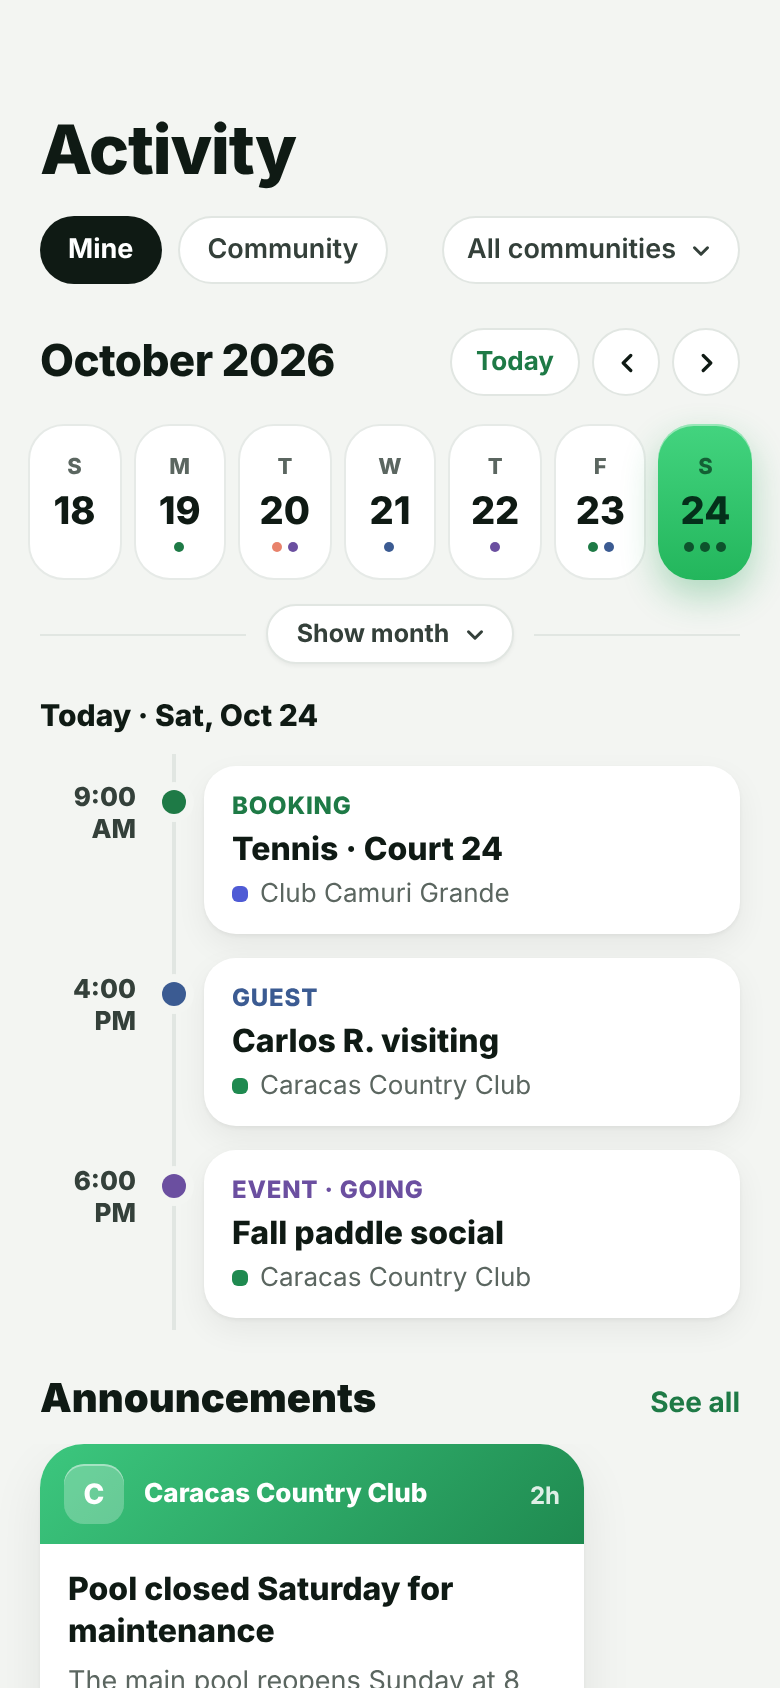
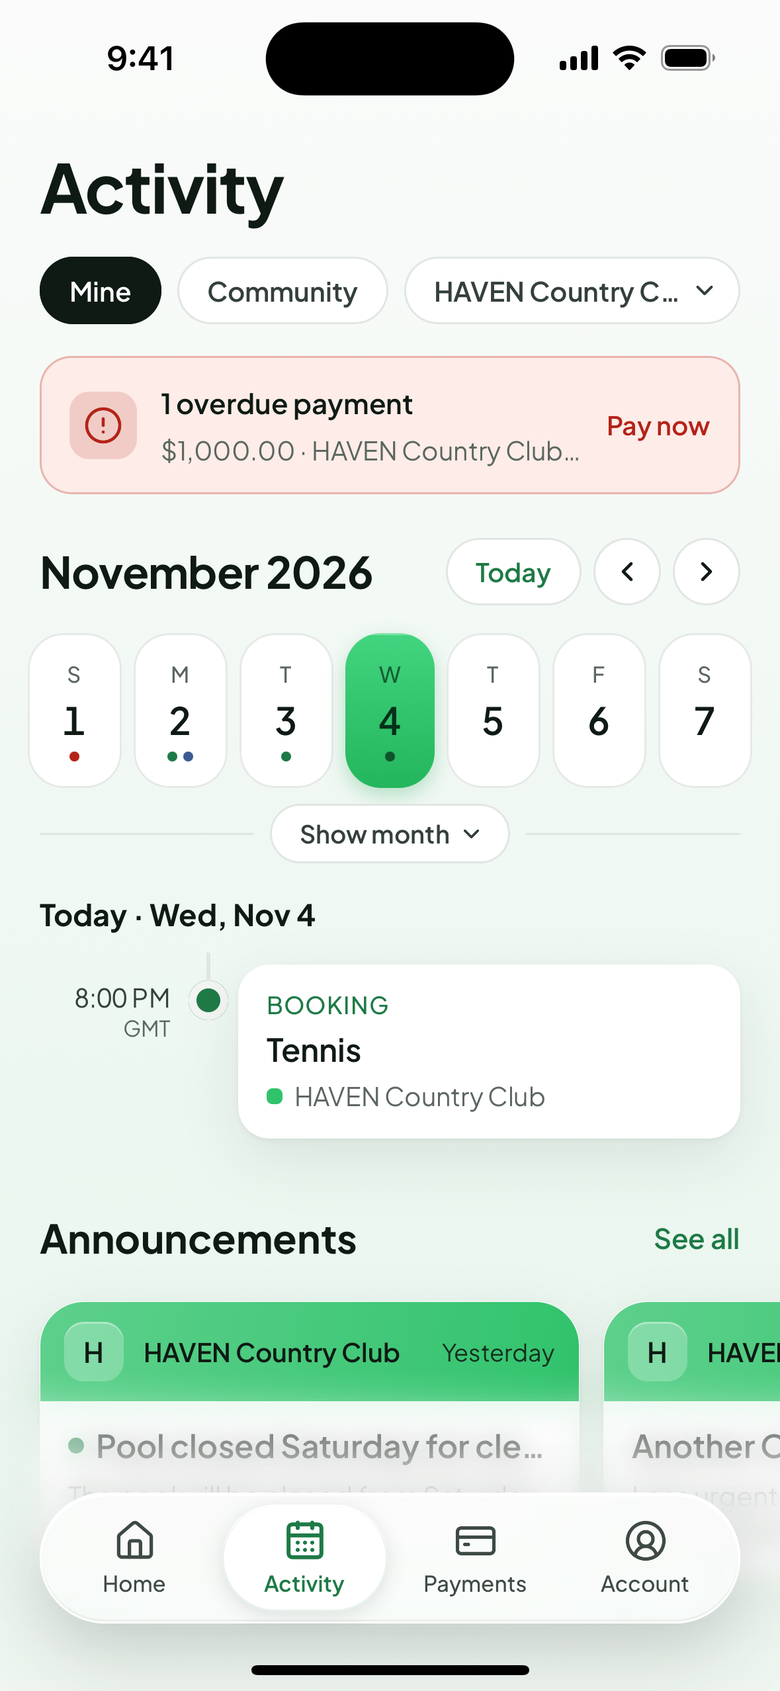
Replace HAVEN images with real screenshots
- App phones (home, activity, bookings, payments) from iPhone 16 simulator
  captures, resized to 780 px wide.
- Admin and marketing site shots retaken from the live sites at 2x.
- Cover rebuilt from design/cover-haven.html with the new admin shot and
  the dark member home.
- Guest passes figure removed from the case study: the old image showed a
  real club and the new capture shows a guest name.
- Phone frames take their height from the screenshot so they never crop.
- Source captures moved to design/haven-screenshots/.

diff --git a/src/content/caseStudies.ts b/src/content/caseStudies.ts
@@ -2,7 +2,6 @@ import havenSite from "@/assets/haven-site.png";
 import havenAdmin from "@/assets/haven-admin.png";
 import havenAppBookings from "@/assets/haven-app-bookings.png";
 import havenAppPayments from "@/assets/haven-app-payments.png";
-import havenAppGuests from "@/assets/haven-app-guests.png";
 import versusVote from "@/assets/versus-vote.png";
 import versusAgent from "@/assets/versus-agent.png";
 import versusSquad from "@/assets/versus-squad.png";
@@ -218,14 +217,14 @@ export const caseStudies: CaseStudy[] = [
         lead: "HAVEN is four products that share one TypeScript core: a member app for iOS and Android, an admin dashboard for running the community, a marketing site with public community pages, and secure payment pages.",
         figures: [
           {
-            image: { src: havenSite, alt: "HAVEN marketing site at havencommunity.app", frame: "screen" },
+            image: { src: havenSite, alt: "HAVEN marketing site at havencommunity.app with the headline, an early access badge and the member app home on a phone", frame: "screen" },
             captionTitle: "Marketing site.",
             caption: "Live at havencommunity.app, with pricing, fees and how payments work.",
           },
           {
             image: {
               src: havenAdmin,
-              alt: "HAVEN admin dashboard with items that need attention, today's bookings and monthly totals",
+              alt: "HAVEN admin dashboard for HAVEN Country Club with setup complete, one household past due, today's booking and this month's totals",
               frame: "screen",
             },
             captionTitle: "Admin dashboard.",
@@ -261,19 +260,14 @@ export const caseStudies: CaseStudy[] = [
         ],
         figures: [
           {
-            image: { src: havenAppBookings, alt: "HAVEN Bookings screen with the next booking on top and a list of spaces to book", frame: "phone" },
+            image: { src: havenAppBookings, alt: "HAVEN Bookings screen with today's tennis booking on top and a soccer field and tennis courts to book", frame: "phone" },
             captionTitle: "Bookings.",
             caption: "Book a space, with the next booking always on top.",
           },
           {
-            image: { src: havenAppPayments, alt: "HAVEN Payments screen with the household balance due, a pay button, bills and recent payments", frame: "phone" },
+            image: { src: havenAppPayments, alt: "HAVEN Payments screen for HAVEN Country Club with an overdue balance for the Morgan household, a pay button, the open bill and recent booking payments", frame: "phone" },
             captionTitle: "Payments.",
             caption: "Dues and bills for the household, paid in one tap.",
-          },
-          {
-            image: { src: havenAppGuests, alt: "HAVEN Guest passes screen with passes left, an invite button and the member's upcoming and used passes", frame: "phone" },
-            captionTitle: "Guest passes.",
-            caption: "Invite guests and track passes left this month.",
           },
         ],
       },

diff --git a/design/cover-haven.html b/design/cover-haven.html
@@ -1,0 +1,48 @@
+<!doctype html>
+<!--
+  HAVEN project cover. Render at 1200x900, deviceScaleFactor 2, to src/assets/cover-haven.png (2400x1800).
+  Sources: haven-screenshots/admin/home-country-club-1440.png (live admin, 2880x2000)
+           haven-screenshots/app/dark/home-country-club.png (iPhone 16 simulator, 1179x2556)
+-->
+<html>
+<head>
+<meta charset="utf-8">
+<style>
+  html, body { margin: 0; width: 1200px; height: 900px; overflow: hidden; }
+  body {
+    position: relative;
+    background:
+      radial-gradient(ellipse 760px 520px at 8% -6%, rgba(34, 140, 72, 0.55), transparent 70%),
+      radial-gradient(ellipse 640px 520px at 104% 100%, rgba(28, 110, 58, 0.45), transparent 70%),
+      linear-gradient(160deg, #0b1a12 0%, #060a08 55%, #07100b 100%);
+  }
+  .window {
+    position: absolute; left: 70px; top: 110px; width: 940px;
+    border-radius: 18px; overflow: hidden;
+    background: #111614;
+    border: 1px solid rgba(255, 255, 255, 0.09);
+    box-shadow: 0 40px 90px rgba(0, 0, 0, 0.6), 0 8px 24px rgba(0, 0, 0, 0.35);
+  }
+  .bar { height: 30px; display: flex; align-items: center; gap: 8px; padding-left: 14px; background: #161c19; border-bottom: 1px solid rgba(255, 255, 255, 0.06); }
+  .bar i { width: 10px; height: 10px; border-radius: 50%; background: #2d3531; }
+  .window img { display: block; width: 100%; }
+  .phone {
+    position: absolute; left: 828px; top: 330px; width: 302px;
+    padding: 10px; border-radius: 54px;
+    background: #1b1f1d;
+    border: 1px solid rgba(255, 255, 255, 0.14);
+    box-shadow: 0 50px 100px rgba(0, 0, 0, 0.7), 0 0 0 2px #0a0c0b inset, -16px 0 40px rgba(0, 0, 0, 0.45);
+  }
+  .phone img { display: block; width: 100%; border-radius: 44px; }
+</style>
+</head>
+<body>
+  <div class="window">
+    <div class="bar"><i></i><i></i><i></i></div>
+    <img src="haven-screenshots/admin/home-country-club-1440.png" alt="">
+  </div>
+  <div class="phone">
+    <img src="haven-screenshots/app/dark/home-country-club.png" alt="">
+  </div>
+</body>
+</html>

diff --git a/src/content/projects.ts b/src/content/projects.ts
@@ -62,7 +62,7 @@ export const statusDots: Record<ProjectStatus, "amber" | "muted"> = {
 };
 
 const havenCoverAlt =
-  "HAVEN admin dashboard on a laptop with items that need attention and today's bookings, next to the member app home for the same community";
+  "HAVEN admin dashboard for HAVEN Country Club in a desktop window, with setup complete, a past due household and this month's totals, next to the member app home in dark mode for the same club";
 const versusCoverAlt =
   "The-Versus on a laptop, showing a Messi versus Cristiano matchup voted factor by factor, next to a phone chat where the agent proposes new matchups";
 const haydnCoverAlt =
@@ -86,9 +86,9 @@ export const projects: Project[] = [
     link: { url: "https://havencommunity.app", label: "havencommunity.app" },
     cardImage: { src: havenCover, alt: havenCoverAlt, frame: "plain" },
     caseStudyImages: [
-      { src: havenAppHome, alt: "HAVEN member app home with the community card and shortcuts for bookings, guests, events and announcements", frame: "phone" },
-      { src: havenAppActivity, alt: "HAVEN Activity screen with a week calendar and the day's bookings, guests and events across communities", frame: "phone" },
-      { src: havenAppBookings, alt: "HAVEN Bookings screen with the next booking on top and spaces to book", frame: "phone" },
+      { src: havenAppHome, alt: "HAVEN member app home for HAVEN Country Club greeting Alex, with cards for the next tennis booking, guest passes, a yoga class and a pool announcement", frame: "phone" },
+      { src: havenAppActivity, alt: "HAVEN Activity screen with an overdue payment alert, a week calendar for November and today's tennis booking at HAVEN Country Club", frame: "phone" },
+      { src: havenAppBookings, alt: "HAVEN Bookings screen with today's tennis booking on top and a soccer field and tennis courts to book", frame: "phone" },
     ],
   },
   {

diff --git a/design/haven-screenshots/site/responsive-hero/README.md b/design/haven-screenshots/site/responsive-hero/README.md
@@ -1,0 +1,12 @@
+# Responsive hero (2026-11-05)
+
+Local build (`site/.vercel/output/static`), Playwright, deviceScaleFactor 2, viewport height 900.
+
+- `hero-375.png`: one dark phone, centered (below 640 px).
+- `hero-768.png`, `hero-900.png`, `hero-1024.png`: stacked hero, dark and light Home side by side, overlapped, offset, centered (640-1024 px).
+- `hero-1440.png`: side by side with the copy, one dark phone (above 1024 px).
+- `founding-*.png`, `final-*.png`, `faq-1440.png`: the founding section without numbers, the self-serve final section, the bank-payment FAQ answer.
+
+Checked at each width: no horizontal scroll, no console errors, no layout shift, every visible phone uses a srcset
+variant of at least 2x its rendered width, the image keeps its aspect ratio (not cropped), the pair's center is
+within 2 px of the viewport center, and no "[" in the visible text.
